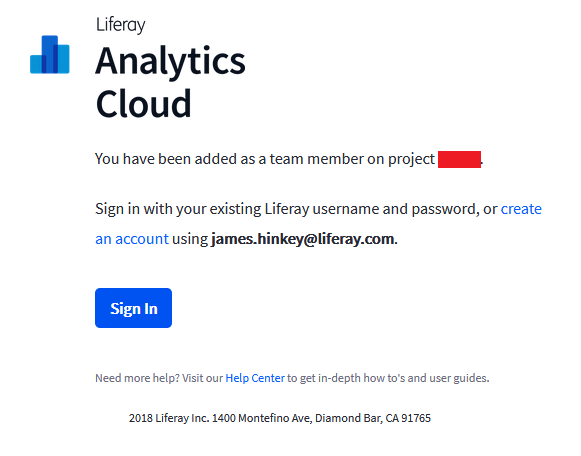
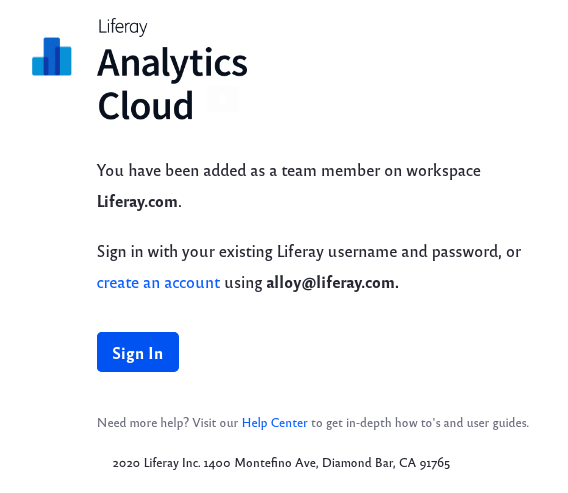
LRDOCS-8729 changed verbiage

diff --git a/docs/analytics-cloud/latest/en/workspace-settings/managing-users.md b/docs/analytics-cloud/latest/en/workspace-settings/managing-users.md
@@ -1,32 +1,32 @@
 # Managing Users
 
-If you are the project Owner or have been assigned the Admin permission, you can invite and manage users. Here’s how to bring up the User Management page:
+If you are the workspace Owner or have been assigned the Admin permission, you can invite and manage users. Here’s how to bring up the User Management page:
 
 1. Click on Settings in the navigation panel. The default Settings page appears.
 
-1. Click on User Management in the navigation area. The User Management page appears, listing all the project’s users.
+1. Click on User Management in the navigation area. The User Management page appears, listing all the workspace’s users.
 
 From the User Management page, an Admin user (or Owner) can invite users, edit their permissions, and delete them.
 
-If your project is new, you’ll want to invite your teammates to the project.
+If your workspace is new, you’ll want to invite your teammates to the workspace.
 
 ## Inviting Users
 
-To invite new users to your Analytics Cloud project, perform these steps:
+To invite new users to your Analytics Cloud workspace, perform these steps:
 
 1. In the User Management page, click on the Invite Users button. The Invite Users dialog appears.
 
-1. Enter the email addresses (separated by a space or comma) of the people to invite to the project.
+1. Enter the email addresses (separated by a space or comma) of the people to invite to the workspace.
 
 1. Click the Send button. The invitation is sent to your lucky teammates.
 
-![The invitation email provides the project number.](managing-users/images/01.png)
+![The invitation email provides the workspace number.](managing-users/images/01.png)
 
 You can set the user’s permissions when their invitation acceptance is pending.
 
 ## Managing Permissions
 
-Analytics Cloud projects have the following Roles:
+Analytics Cloud workspaces have the following Roles:
 
 **Owner:** Can do all things, but cannot be deleted.
 

diff --git a/docs/analytics-cloud/latest/en/workspace-settings/managing-workspaces.md b/docs/analytics-cloud/latest/en/workspace-settings/managing-workspaces.md
@@ -1,0 +1,27 @@
+# Managing Workspaces
+
+Workspace administrators connect data sources to the workspace, manage workspace users, and track workspace usage against the current plan limits.
+
+<!-- management screenshot -->
+
+## Connecting Data Sources
+
+To learn about connecting and managing data sources:
+
+* [Managing Data Sources](../getting-started/connecting-data-sources/managing-data-sources.md)
+* [Connecting Liferay DXP Sites to Analytics Cloud](../getting-started/connecting-data-sources/connecting-liferay-dxp-to-analytics-cloud.md)
+* [Connecting Salesforce](../people/individuals/adding-a-salesforce-data-source.md)
+* [Importing CSV Data](../people/individuals/adding-a-csv-data-source.md)
+* [Tracking Sites Using Properties](../getting-started/connecting-data-sources/tracking-sites-and-individuals-using-properties.md)
+
+## Managing Workspace Users
+
+As you’re starting your workspace and new people join your team, you’ll want to invite teammates to participate in your workspace. This article shows you how to invite users and assign them appropriate permission Roles.
+
+* [Managing Users](./managing-users.md)
+
+## Tracking Workspace Usage
+
+As you sync contact and web analytics data from data sources, you must keep an eye on your workspace's usage compared to the Liferay Analytics Cloud plan you purchased. The Usage page shows your current usage and describes available plan upgrades and add-ons to address your analytics needs.
+
+* [Tracking Usage](./tracking-usage.md)

diff --git a/docs/analytics-cloud/latest/en/getting-started/quick-tour/viewing-the-analytics-dashboard.md b/docs/analytics-cloud/latest/en/getting-started/quick-tour/viewing-the-analytics-dashboard.md
@@ -26,4 +26,4 @@ Most of the important settings are configured when you created the workspace. Ho
 * Workspace Usage Monitoring
 * Workspace Settings
 
-You will begin to see analytics data once your workspace is connected. For example, view Site specific analytics on the [Sites dashboard](../../touchpoints/sites-dashboard.md). To see more about your workspace settings, see [Managing Your Analytics Project](../../workspace-settings/managing-projects.md). 
+You will begin to see analytics data once your workspace is connected. For example, view Site specific analytics on the [Sites dashboard](../../touchpoints/sites-dashboard.md). To see more about your workspace settings, see [Managing Workspaces](../../workspace-settings/managing-workspaces.md). 

diff --git a/docs/analytics-cloud/latest/en/workspace_settings.rst b/docs/analytics-cloud/latest/en/workspace_settings.rst
@@ -7,9 +7,9 @@ Workspace Settings
    workspace-settings/managing-users.md
    workspace-settings/managing-properties.md
    workspace-settings/tracking-usage.md
-   workspace-settings/managing-projects.md
+   workspace-settings/managing-workspaces.md
 
 -  :doc:`/workspace-settings/managing-users`
 -  :doc:`/workspace-settings/managing-properties`
 -  :doc:`/workspace-settings/tracking-usage`
--  :doc:`/workspace-settings/managing-projects`
+-  :doc:`/workspace-settings/managing-workspaces`
